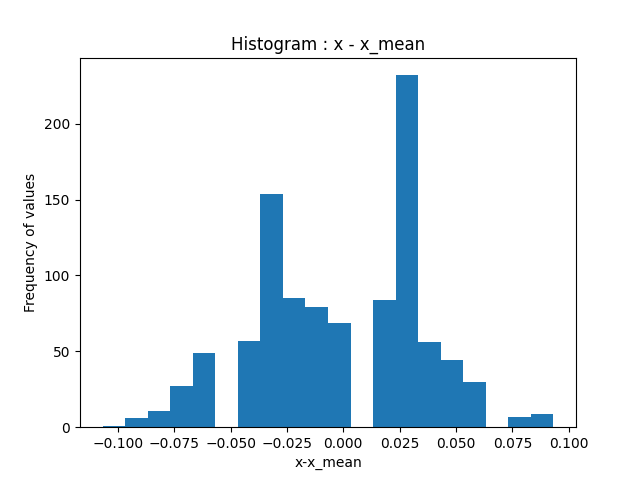
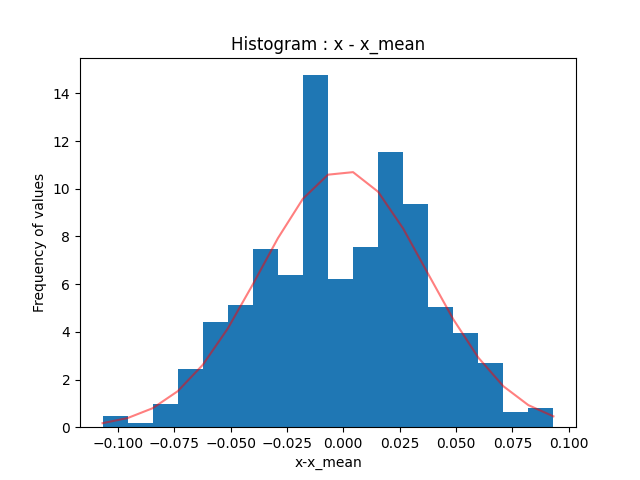
updated plots and code

diff --git a/accel/serail_read.py b/accel/serail_read.py
@@ -2,8 +2,7 @@ import serial
 import time
 import matplotlib.pyplot as plt
 import numpy as np
-
-
+from scipy.stats import norm
 
 x = []
 y = []
@@ -95,14 +94,20 @@ print (x_sub)
 
 
 plt.figure(1)
-plt.hist(x_sub , bins='auto')
+_, bins,_ =plt.hist(x_sub , bins=18, density=True )
+m, s = norm.fit(x_sub)
+p = norm.pdf(bins, m, s) 
+plt.plot(bins, p, 'r', alpha=.5)
 plt.xlabel('x-x_mean')
 plt.ylabel('Frequency of values')
 plt.title('Histogram : x - x_mean')
 plt.savefig('hist_xsubt')
 
 plt.figure(2)
-plt.hist(y_sub , bins='auto')
+_,bins,_=plt.hist(y_sub , bins='auto', density=True)
+m, s = norm.fit(y_sub)
+p = norm.pdf(bins, m, s) * 2
+plt.plot(bins, p, 'r', alpha=.5)
 plt.xlabel('y-y_mean')
 plt.ylabel('Frequency of values')
 plt.title('Histogram : y - y_mean')
@@ -110,7 +115,10 @@ plt.savefig('hist_ysubt')
 
 
 plt.figure(3)
-plt.hist(z_sub , bins='auto')
+_, bins ,_ = plt.hist(z_sub , bins='auto', density=True)
+m, s = norm.fit(z_sub)
+p = norm.pdf(bins, m, s) * 2
+plt.plot(bins, p, 'r', alpha=.5)
 plt.xlabel('z-z_mean')
 plt.ylabel('Frequency of values')
 plt.title('Histogram : z - z_mean')

diff --git a/pressure/serail_read_pressure.py b/pressure/serail_read_pressure.py
@@ -2,6 +2,7 @@ import serial
 import time
 import matplotlib.pyplot as plt
 import numpy as np
+from scipy.stats import norm
 
 x = input()
 
@@ -51,7 +52,10 @@ print (pressure_sub)
 
 
 plt.figure(1)
-plt.hist(pressure , bins='auto')
+_,bins,_=plt.hist(pressure , bins='auto', density=True)
+m, s = norm.fit(pressure)
+p = norm.pdf(bins, m, s) * 5
+plt.plot(bins, p,'r' , alpha=.4)
 plt.xlabel('Pressure in Pa')
 plt.ylabel('Frequency')
 plt.title('Histogram of Pressure')
@@ -60,7 +64,10 @@ plt.savefig('hist_pressure')
 
 
 plt.figure(2)
-plt.hist(pressure_sub , bins='auto')
+_,bins,_ = plt.hist(pressure_sub , bins='auto', density=True)
+m, s = norm.fit(pressure_sub)
+p = norm.pdf(bins, m, s) * 5
+plt.plot(bins, p, 'r' , alpha=.4)
 plt.xlabel('Mean subtracted values')
 plt.ylabel('Frequency')
 plt.title('Histogram of p-pmean')
